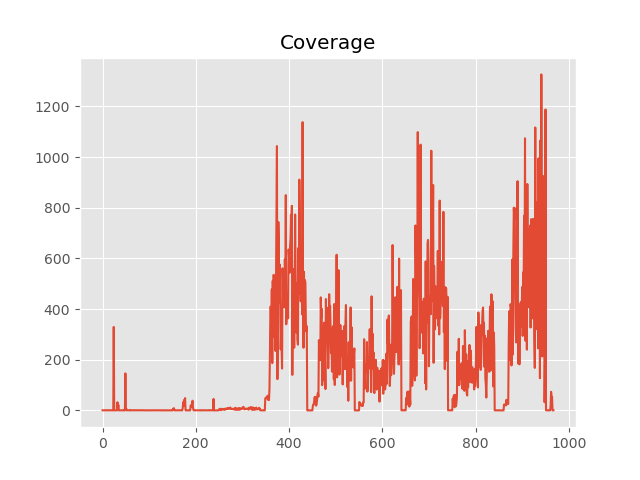
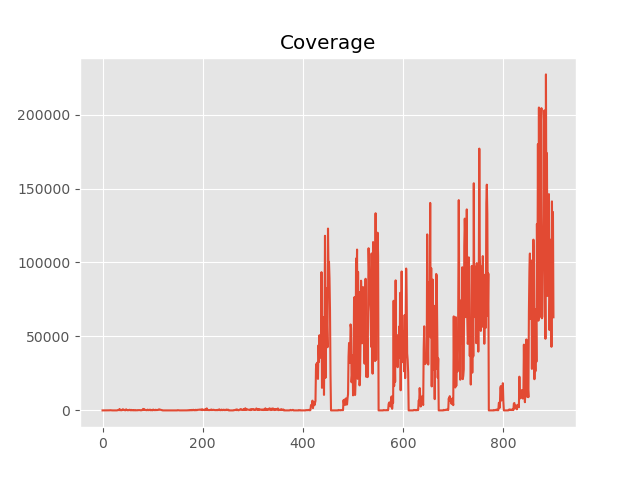
add codes to set states

diff --git a/Supporting_files/supporting_functions.py b/Supporting_files/supporting_functions.py
@@ -253,23 +253,16 @@ def create_q_args(edge_type_info, config_params, miu_dict, buffer_size_for_each_
         return 25 + 350 * np.sin(np.pi * t / 2)**2
 
     def arr(t):
-
-        return t + np.random.gamma(4, 0.0025)
-
+        return poisson_random_measure(t, rate, config_params['arrival_rate'])
+    
     def get_service_time(edge_type_info, miu_dict, exit_nodes):
-        # need to make into a user-prompted way to ask for service rate where each end node corresponds to a distinctive service rate
-        # the convert into each edge correponds to a distinctive service rate
-        # save for buffer size
         services_f = {}
         for end_node in edge_type_info.keys():
             if end_node not in exit_nodes:
-                service_rate = miu_dict[end_node]
-
                 for edge_type in edge_type_info[end_node]:
-                    def ser_f(t):
-
-                        return t + np.random.exponential(0.025)
-                    
+                    service_rate = miu_dict.get(end_node)
+                    def ser_f(t, rate=service_rate):  
+                        return t + np.random.exponential(rate)  
                     services_f[edge_type] = ser_f
 
         return services_f
@@ -422,32 +415,30 @@ def train(params, agent, env, best_params = None):
 
     next_state_model_list_all = []
     reward_model_list_all =[]
-    critic_loss_list_all = {}
-    actor_loss_list_all = {}
-    reward_list_all = {}
-    actor_gradient_list_all = {}
     gradient_dict_all = {}
     action_dict = {}
-    gradient_dict = {}
+    gradient_dict_all = {}
     transition_probas = init_transition_proba(env)
 
-    num_episodes, batch_size, num_epochs, time_steps, target_update_frequency = get_params_for_train(params)
-
-    agent.train()
     actor_loss_list= []
     critic_loss_list = []
-    actor_gradient_list = []
     reward_list = []
-    save_state = {'state':[]}
-    for episode in tqdm(range(num_episodes), desc="Episode Progress"): 
-            
-        env.reset()
-        state = env.explore_state(agent, env.qn_net, episode = episode)
 
+    num_episodes, batch_size, num_epochs, _, _ = get_params_for_train(params)
+
+    agent.train()
+    env.reset()
+    update = 0
+
+    for episode in tqdm(range(num_episodes), desc="Episode Progress"): 
+         
+        state = env.explore_state(agent, env.qn_net, episode)
         state_list = state.tolist()
         state_int = [int(x) for x in state_list]
         initial_states = convert_format(state_int)
-        # env.net.set_initial_states(initial_states)
+
+        env.net.set_initial_states(initial_states)
+        state = state / torch.max(state)
         action = agent.select_action(state).to(device) 
     
         action_list = action.cpu().numpy().tolist()
@@ -455,13 +446,10 @@ def train(params, agent, env, best_params = None):
             node_list = action_dict.setdefault(index, [])
             node_list.append(value)
             action_dict[index] = node_list
-                        
         next_state = env.get_next_state(action)
-        state_list = save_state['state'] 
-        state_list.append(next_state.tolist())
-        save_state['state'] = state_list
 
         next_state = torch.tensor(next_state).float().to(device)
+
         reward = env.get_reward()
 
         reward_list.append(reward)                               
@@ -471,12 +459,7 @@ def train(params, agent, env, best_params = None):
     
         if agent.buffer.current_size > 0 and agent.buffer.current_size % batch_size == 0:
 
-            # Specify the file name
-            file_name = 'states_data.json'
-
-            # Open a file and save the dictionary as JSON
-            with open(file_name, 'w') as json_file:
-                json.dump(save_state, json_file)  
+            update += 1
 
             reward_model_loss_list, next_state_loss_list = agent.fit_model(batch_size=batch_size, epochs=num_epochs)
             next_state_model_list_all += next_state_loss_list
@@ -484,26 +467,70 @@ def train(params, agent, env, best_params = None):
 
             transition_probas = update_transition_probas(transition_probas, env)
             
-            #for _ in tqdm(range(10), desc="Update Actor/Critic Network"):
-            batch = agent.buffer.sample(batch_size)
+            batch = agent.buffer.sample(batch_size = batch_size)
             critic_loss = agent.update_critic_network(batch)                   
             actor_loss, gradient_dict = agent.update_actor_network(batch)    
 
             actor_loss_list.append(actor_loss)
             critic_loss_list.append(critic_loss)
+
             agent.plan(batch)
 
             agent.soft_update(network="critic")
             agent.soft_update(network="actor")
 
-        actor_loss_list_all[episode] = actor_loss_list
-        critic_loss_list_all[episode] = critic_loss_list
-        actor_gradient_list_all[episode] = actor_gradient_list
-        reward_list_all[episode] = reward_list
-        gradient_dict_all[episode] = gradient_dict
+            gradient_dict_all[update] = gradient_dict
+    
+    import matplotlib.pyplot as plt
+    plt.figure()
+    plt.title("reward")
+    plt.plot(reward_list)
+    save_path = os.path.join(os.getcwd(), 'reward')
+    plt.savefig(save_path)
+    plt.close()
+
+    plt.figure()
+    plt.title("actor_loss")
+    plt.plot(actor_loss_list)
+    save_path = os.path.join(os.getcwd(), 'actor_loss')
+    plt.savefig(save_path)
+    plt.close()
+
+    plt.figure()
+    plt.title("critic_loss")
+    plt.plot(critic_loss_list)
+    save_path = os.path.join(os.getcwd(), 'critic_loss')
+    plt.savefig(save_path)
+    plt.close()
+
+    plt.figure()
+    plt.plot(gradient_dict['layers.0.weight'][1])
+    save_path = os.path.join(os.getcwd(), 'gradient')
+    plt.savefig(save_path)
+    plt.close()
+
+    # Assuming you want to plot for key '1'
+    data_to_plot = transition_probas[1]
+
+    # Create a figure
+    plt.figure(figsize=(10, 6))
+
+    # Plot each series in the dictionary on the same graph
+    for key, values in data_to_plot.items():
+        plt.plot(values, label=f'Transitions from 1 to {key}')
+
+    # Add title and labels
+    plt.title('Transition Probabilities from 1')
+    plt.xlabel('Index')
+    plt.ylabel('Probability')
+    plt.legend()  # Add a legend to explain each line
+
+    save_path = os.path.join(os.getcwd(), 'transition probas')
+    plt.savefig(save_path)
+    plt.close()
+
+    return reward_list, actor_loss_list, critic_loss_list, gradient_dict_all, action_dict
         
-    return reward_model_list_all, next_state_model_list_all, critic_loss_list_all,\
-          actor_loss_list_all, reward_list_all, action_dict, gradient_dict_all, actor_gradient_list_all, transition_probas
 
 def create_ddpg_agent(environment, params, hidden):
     """

diff --git a/environments/RL_Environment.py b/environments/RL_Environment.py
@@ -29,7 +29,7 @@ class RLEnv:
         self.net.start_collecting_data()
 
         # Simulation is specified by time in seconds, the number of events will depend on the arrival rate
-        self.net.initialize()
+        self.net.initialize(edge_type=1)
 
         self.initialize_params_for_visualization()
 
@@ -214,7 +214,8 @@ class RLEnv:
         Returns:
             The state of the environment after the simulation.
         """
-
+        self.net.initialize(edge_type=1)
+        
         self.iter +=1
         self.net.clear_data()
         self.net.start_collecting_data()
@@ -277,6 +278,7 @@ class RLEnv:
                 tot_EtE_delay = EtE_delay.sum()
                 reward += (throughput-tot_EtE_delay)
         if reward <= 0:
+            print(f"queue:{i}, throughput:{throughput}, EtE: {EtE_delay}")
             print()
         return reward
 
